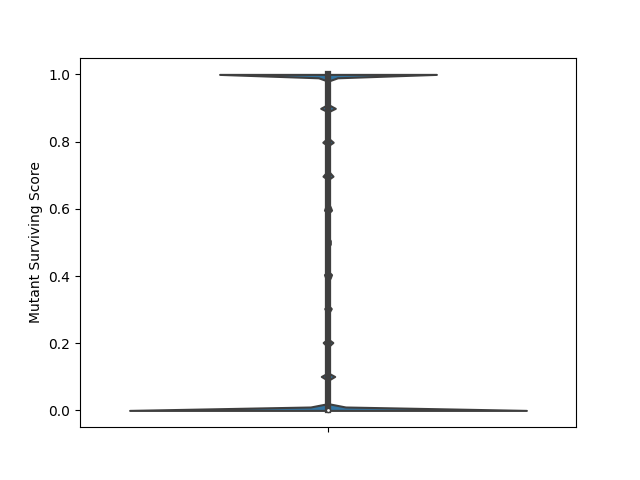
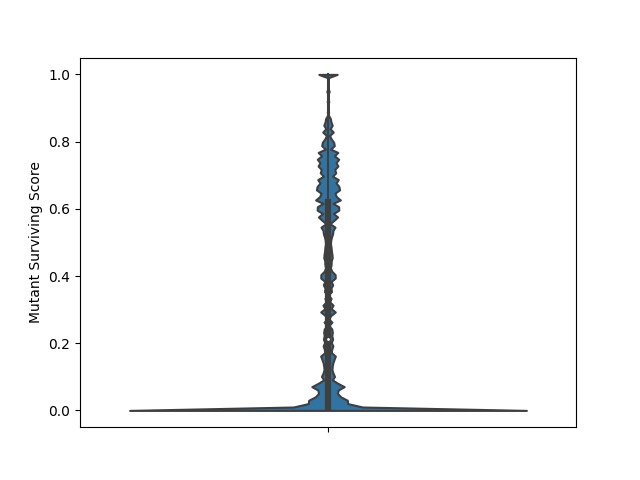
Added violin plots for MTSS

Changed region(s): [[0.3438, 0.125, 0.6875, 0.875]]

diff --git a/mbta/transcoder/violin_plot_mtss.py b/mbta/transcoder/violin_plot_mtss.py
@@ -12,18 +12,14 @@ if __name__ == "__main__":
         os.makedirs("plots", exist_ok=True)
 
     percentage = lambda item: sum(item) / len(item)
+    aggregate_mutants = lambda item: all(item)
 
-    grouped = data.groupby(['class', 'mutant']).agg({"equal_results": percentage})
+
+    grouped = data.groupby(['class', 'mutant']).agg({"equal_results": aggregate_mutants})
+    grouped = grouped.groupby(["class"]).agg({"equal_results": percentage})
     grouped = grouped.rename(columns={"equal_results": "Surviving Score"})
 
     plt.figure()
     violin = sns.violinplot(data=grouped, y="Surviving Score", cut=0, bw=0.01)
     violin.set(ylabel="Mutant Surviving Score")
     plt.savefig('plots/violin_mtss_mutant.png')
-
-    grouped = grouped.groupby('class')["Surviving Score"].mean().to_frame("Surviving Score")
-
-    plt.figure()
-    violin = sns.violinplot(data=grouped, y="Surviving Score", cut=0, bw=0.01)
-    violin.set(ylabel="Mean Mutant Surviving Score per Class")
-    plt.savefig('plots/violin_mtss.png')
